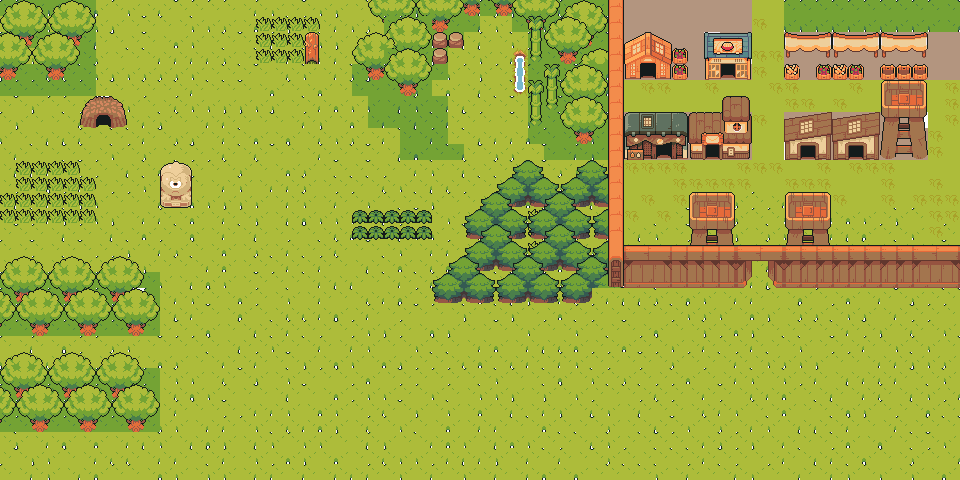
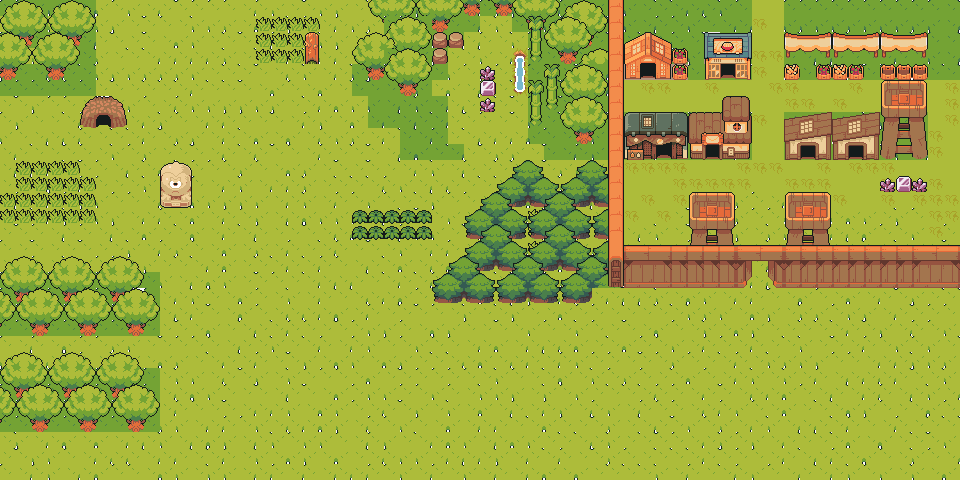
add healing function and location, revise attack collision, add enimies spawn and wave

diff --git a/page_resources/forest_adventure.js b/page_resources/forest_adventure.js
@@ -6,6 +6,8 @@ const gameOverMenu = document.getElementById("gameOverMenu");
 const tryAgainButton = document.getElementById("tryAgain");
 const startGameButton = document.getElementById("startGame");
 
+canvas.width = window.innerWidth;
+canvas.height = 600;
 const canvasWidth = canvas.clientWidth;
 const canvasHeight = canvas.clientHeight;
 let frameTimer = 0;
@@ -55,7 +57,8 @@ class Boundary {
 }
 let collision_point = [];
     let boundaries = [];
-    
+let healing_zone = [];
+let healingBoundaries = [];
     for (i = 0; i< map_collision.data.length ; i+= map_collision.width) {
         collision_point.push(map_collision.data.slice(i, map_collision.width + i));
     }
@@ -69,6 +72,22 @@ let collision_point = [];
             };
         })
     })
+    for (i = 0; i< HEALING_ZONE.data.length ; i+= HEALING_ZONE.width) {
+        healing_zone.push(HEALING_ZONE.data.slice(i, HEALING_ZONE.width + i));
+    }
+    // console.log(healing_zone);
+    
+    healing_zone.forEach((row, i) => {
+        row.forEach((symbol, j) => {
+            if (symbol === 2397) {
+                healingBoundaries.push(new Boundary({
+                    x:j*Boundary.width,
+                    y:i*Boundary.height,
+                }))
+            };
+        })
+    })
+    
 // const gameSaved = {
 //     characterHp: 100,
 //     enemyLeft: [ new BeatleEnemy ],
@@ -81,6 +100,12 @@ const characterStates = {
     idle: 3,
     run: 4,
     runReverse: 5,
+}
+let heal = (keys, healthComponent, deltaTime) => {
+    const healAmount = 10
+    if (keys.includes("i")) {
+        healthComponent.healUp(healAmount, deltaTime);
+    }
 }
 let loadImages = (sources, callback) => {
     sources.forEach ((res) => {
@@ -113,32 +138,40 @@ let startGame = () => {
 }
 tryAgainButton.addEventListener("click", startGame);
 startGameButton.addEventListener("click", startGame);
+let waveNumber = 1;
+let waveEnemiesAmount = 5*waveNumber;
 class Game {
     constructor() {
         this.samurai = new Character(30, 150);
         this.health = new HealthComponent;
         this.enemyArray = [];
         this.bossArray = [];
+        this.allEnemies = [];
     }
     updateGameProgress = (deltaTime) => {
         if (this.samurai.healthComponent.health <= 0) isGameOver = true;
-        if (this.enemyArray.length === 0 && this.bossArray.length === 0) isGameWin = true;
+        // if (this.enemyArray.length === 0 && this.bossArray.length === 0) isGameWin = true;
         // let samuraiLocation = {
         //     x: this.samurai.x,
         //     y: this.samurai.y,
         //     width: this.samurai.width,
         //     height: this.samurai.height,
         // }
-   
-        context.drawImage(images.background_map_2, 0,0, 480, 320, 0, 0, 480*scaleFactor, 320*scaleFactor)
+        this.allEnemies = [...this.enemyArray,...this.bossArray];
+        context.drawImage(images.background_map_2, 0,0, 1000, 320, 0, 0, 1000*scaleFactor, 320*scaleFactor)
         context.font = "20px Arial";
         context.fillStyle = "whitesmoke";
-        context.fillText(`Enemies remain ${[...this.enemyArray,...this.bossArray].length}`, 5, 50); 
-        let characterCollisionProperty = checkIsCollide(this.samurai,[...this.enemyArray,...this.bossArray]);
-        let characterInRadiusProperty = checkInRadius(this.samurai,[...this.enemyArray,...this.bossArray], 20, 20);
+        context.fillText(`Enemies remain ${this.allEnemies.length}`, 5, 50); 
+        context.fillText(`Wave ${waveNumber}`, 5, 80); 
+        let characterCollisionProperty = checkIsCollide(this.samurai, this.allEnemies);
+        let characterAttackHitProperty = checkIsCollide(this.samurai.attackBox,this.allEnemies);
         if (characterCollisionProperty.isCollide) this.samurai.takingDamage(characterCollisionProperty.secondCollider.damage, deltaTime);
         // this.beatle1.takingDamage(this.samurai.updateMovement(characterInput.keys, this.samurai.healthComponent.health).damage, deltaTime);
-        if (characterInRadiusProperty.isInRadius) characterInRadiusProperty.secondCollider.takingDamage(this.samurai.attack(characterInput.keys), deltaTime);
+        if (characterAttackHitProperty.isCollide) characterAttackHitProperty.secondCollider.takingDamage(this.samurai.attack(characterInput.keys), deltaTime);
+        if (checkIsCollide(this.samurai, healingBoundaries).isCollide) {
+            this.samurai.drawText("hold i to heal", 60, 90);
+            heal(characterInput.keys, this.samurai.healthComponent, deltaTime);
+        }
         this.samurai.updateMovement(characterInput.keys, this.samurai.healthComponent.health, boundaries);
         this.samurai.updateAnimation();
         this.samurai.draw();
@@ -160,31 +193,50 @@ class Game {
         }, deltaTime);
             // res.approachingLocation(this.samurai.x, this.samurai.y, this.samurai.width, this.samurai.height);
         })
+        this.spawnWave(this.allEnemies);
             // boundaries.forEach((res) => {
+            //     res.draw();
+            // })
+            // healingBoundaries.forEach((res) => {
             //     res.draw();
             // })
     }
     startGame = () => {
         this.restoreHealth();
-        this.enemyArray = [new Enemy(30,4,5), new BeatleEnemy (5,4,5), new BeatleEnemy (5,4,5)];
-        this.bossArray = [new BossEnemy (50,0,0)];
-        this.enemyArray.push(...Array.from({ length: 5 }, () => new BeatleEnemy(5, 4, 5)));
-        this.enemyArray.push(...Array.from({ length: 5 }, () => new Enemy(20, 4, 5)));
+            let bossAmount = 0 + waveNumber;
+            let reamainingEnemiesAmount = waveEnemiesAmount - bossAmount;
+            this.bossArray = [];
+            this.enemyArray = [];
+            this.bossArray.push(...Array.from({ length: bossAmount}, () => new BossEnemy(50,0,0)));
+            this.enemyArray.push(...Array.from({ length: Math.floor(reamainingEnemiesAmount/2) }, () => new BeatleEnemy(5, 4, 5)));
+            this.enemyArray.push(...Array.from({ length: Math.floor(reamainingEnemiesAmount/2) }, () => new Enemy(20, 4, 5)));
     }
     restoreHealth = () => {
         this.samurai.healthComponent.restoreHealth();
+    }
+    spawnWave = (allEnemies) => {
+        if (allEnemies <= 0) {
+            let bossAmount = 0 + waveNumber;
+            let reamainingEnemiesAmount = waveEnemiesAmount - bossAmount;
+            this.bossArray.push(...Array.from({ length: bossAmount}, () => new BossEnemy(50,0,0)));
+            this.enemyArray.push(...Array.from({ length: Math.floor(reamainingEnemiesAmount/2) }, () => new BeatleEnemy(5, 4, 5)));
+            this.enemyArray.push(...Array.from({ length: Math.floor(reamainingEnemiesAmount/2) }, () => new Enemy(20, 4, 5)));
+            waveNumber++;
+            waveEnemiesAmount = 5*waveNumber;
+        };
+        return;
     }
 }
 class InputHandler {
     constructor() {
         this.keys = [];
         window.addEventListener("keydown", (e) => {
-            if ((e.key === "w" || e.key === "a" || e.key === "s" || e.key === "d" || e.key === "k") && this.keys.indexOf(e.key) === -1) {
+            if ((e.key === "w" || e.key === "a" || e.key === "s" || e.key === "d" || e.key === "k" || e.key === "i") && this.keys.indexOf(e.key) === -1) {
                 this.keys.push(e.key)
             };
         })
         window.addEventListener("keyup", (e) => {
-            if (e.key === "w" || e.key === "a" || e.key === "s" || e.key === "d" || e.key === "k") {
+            if (e.key === "w" || e.key === "a" || e.key === "s" || e.key === "d" || e.key === "k" || e.key === "i") {
                 this.keys.splice(this.keys.indexOf(e.key), 1);
             }
         })
@@ -205,6 +257,9 @@ class CollisionBox {
     draw = () => {
         context.fillStyle = "rgb(0,255,0)";
         context.fillRect(this.x, this.y, this.width, this.height);
+    }
+    getCharacterCollision = () => {
+        return this;
     }
 }
 checkIsCollide = (firstCollider, colliders, xOffset = 0, yOffset = 0) => {
@@ -254,9 +309,13 @@ class Character {
         this.height = 96;
         this.healthComponent = new HealthComponent("green", 5, 5, maxHealth);
         this.collision = new CollisionBox(this.damage, this.x + 90, this.y + 100, this.width - 70, this.height - 25);
+        this.attackBox = new CollisionBox(this.damage, this.x + 120, this.y + 100, this.width - 40, this.height - 25);
         this.isHurt = false;
         this.isTakingDamageTime = 0;
         this.direction = 1;
+    }
+    drawText = (text, textXOffset, textYOffset) => {
+        context.fillText(text, this.x + textXOffset, this.y + textYOffset);
     }
     updateMovement = (keys, health, boundaries) => {
         if (this.isHurt) return {
@@ -332,12 +391,18 @@ class Character {
         this.collision.updateLocation(this.x + 90, this.y + 100);
         context.drawImage(images[this.actionImage], this.actionFrame * 1536/16, 0 , 672/7, 96, this.x, this.y, 200, 200);
         // context.fillRect(this.x, this.y, 100,100)
+        if (this.direction === 1) {
+            this.attackBox.updateLocation(this.x + 120, this.y + 100);
+        } else {
+            this.attackBox.updateLocation(this.x + 10, this.y + 100);
+        }
+        // this.attackBox.draw();
     }
 }
 class Enemy {
     constructor (damage, forwardRow, backwardRow, collisionXOffset = 0, collisionYOffset = 0, collisionWidth = 50, collisionHeight = 50, maxHealth = 100, sizeFactor = 2) {
         this.x = 300;
-        this.y = canvasWidth/2 + Math.random()*200;
+        this.y = canvasHeight/2 + Math.random()*200;
         this.actionFrame = 0;
         this.speed = Math.random() * 2 + 2;
         this.actionImage = "animal_wildlife_bear";
@@ -482,6 +547,14 @@ class HealthComponent {
         if (this.isTakingDamageTime <= 0 && this.health != currentHealth) {
             this.isTakingDamageTime = 100;
             this.health = currentHealth;
+            return;
+        };
+        if (this.isTakingDamageTime > 0) this.isTakingDamageTime -= interval;
+    }
+    healUp = (healAmount, interval) => {
+        if (this.isTakingDamageTime <= 0) {
+            this.isTakingDamageTime = 100;
+            this.health += healAmount;
             return;
         };
         if (this.isTakingDamageTime > 0) this.isTakingDamageTime -= interval;

diff --git a/page_resources/forest_adventure_map_collision.js b/page_resources/forest_adventure_map_collision.js
@@ -39,3 +39,44 @@ const map_collision = {
          "x":0,
          "y":0
         };
+const HEALING_ZONE = {
+         "data":[0, 0, 0, 0, 0, 0, 0, 0, 0, 0, 0, 0, 0, 0, 0, 0, 0, 0, 0, 0, 0, 0, 0, 0, 0, 0, 0, 0, 0, 0, 0, 0, 0, 0, 0, 0, 0, 0, 0, 0, 0, 0, 0, 0, 0, 0, 0, 0, 0, 0, 0, 0, 0, 0, 0, 0, 0, 0, 0, 0,
+            0, 0, 0, 0, 0, 0, 0, 0, 0, 0, 0, 0, 0, 0, 0, 0, 0, 0, 0, 0, 0, 0, 0, 0, 0, 0, 0, 0, 0, 0, 0, 0, 0, 0, 0, 0, 0, 0, 0, 0, 0, 0, 0, 0, 0, 0, 0, 0, 0, 0, 0, 0, 0, 0, 0, 0, 0, 0, 0, 0,
+            0, 0, 0, 0, 0, 0, 0, 0, 0, 0, 0, 0, 0, 0, 0, 0, 0, 0, 0, 0, 0, 0, 0, 0, 0, 0, 0, 0, 0, 0, 0, 0, 0, 0, 0, 0, 0, 0, 0, 0, 0, 0, 0, 0, 0, 0, 0, 0, 0, 0, 0, 0, 0, 0, 0, 0, 0, 0, 0, 0,
+            0, 0, 0, 0, 0, 0, 0, 0, 0, 0, 0, 0, 0, 0, 0, 0, 0, 0, 0, 0, 0, 0, 0, 0, 0, 0, 0, 0, 0, 2397, 2397, 2397, 0, 0, 0, 0, 0, 0, 0, 0, 0, 0, 0, 0, 0, 0, 0, 0, 0, 0, 0, 0, 0, 0, 0, 0, 0, 0, 0, 0,
+            0, 0, 0, 0, 0, 0, 0, 0, 0, 0, 0, 0, 0, 0, 0, 0, 0, 0, 0, 0, 0, 0, 0, 0, 0, 0, 0, 0, 0, 2397, 2397, 2397, 0, 0, 0, 0, 0, 0, 0, 0, 0, 0, 0, 0, 0, 0, 0, 0, 0, 0, 0, 0, 0, 0, 0, 0, 0, 0, 0, 0,
+            0, 0, 0, 0, 0, 0, 0, 0, 0, 0, 0, 0, 0, 0, 0, 0, 0, 0, 0, 0, 0, 0, 0, 0, 0, 0, 0, 0, 0, 2397, 2397, 2397, 0, 0, 0, 0, 0, 0, 0, 0, 0, 0, 0, 0, 0, 0, 0, 0, 0, 0, 0, 0, 0, 0, 0, 0, 0, 0, 0, 0,
+            0, 0, 0, 0, 0, 0, 0, 0, 0, 0, 0, 0, 0, 0, 0, 0, 0, 0, 0, 0, 0, 0, 0, 0, 0, 0, 0, 0, 0, 2397, 2397, 2397, 0, 0, 0, 0, 0, 0, 0, 0, 0, 0, 0, 0, 0, 0, 0, 0, 0, 0, 0, 0, 0, 0, 0, 0, 0, 0, 0, 0,
+            0, 0, 0, 0, 0, 0, 0, 0, 0, 0, 0, 0, 0, 0, 0, 0, 0, 0, 0, 0, 0, 0, 0, 0, 0, 0, 0, 0, 0, 2397, 2397, 2397, 0, 0, 0, 0, 0, 0, 0, 0, 0, 0, 0, 0, 0, 0, 0, 0, 0, 0, 0, 0, 0, 0, 0, 0, 0, 0, 0, 0,
+            0, 0, 0, 0, 0, 0, 0, 0, 0, 0, 0, 0, 0, 0, 0, 0, 0, 0, 0, 0, 0, 0, 0, 0, 0, 0, 0, 0, 0, 0, 0, 0, 0, 0, 0, 0, 0, 0, 0, 0, 0, 0, 0, 0, 0, 0, 0, 0, 0, 0, 0, 0, 0, 0, 0, 0, 0, 0, 0, 0,
+            0, 0, 0, 0, 0, 0, 0, 0, 0, 0, 0, 0, 0, 0, 0, 0, 0, 0, 0, 0, 0, 0, 0, 0, 0, 0, 0, 0, 0, 0, 0, 0, 0, 0, 0, 0, 0, 0, 0, 0, 0, 0, 0, 0, 0, 0, 0, 0, 0, 0, 0, 0, 0, 0, 0, 0, 0, 0, 0, 0,
+            0, 0, 0, 0, 0, 0, 0, 0, 0, 0, 0, 0, 0, 0, 0, 0, 0, 0, 0, 0, 0, 0, 0, 0, 0, 0, 0, 0, 0, 0, 0, 0, 0, 0, 0, 0, 0, 0, 0, 0, 0, 0, 0, 0, 0, 0, 0, 0, 0, 0, 0, 0, 0, 0, 0, 0, 0, 0, 0, 0,
+            0, 0, 0, 0, 0, 0, 0, 0, 0, 0, 0, 0, 0, 0, 0, 0, 0, 0, 0, 0, 0, 0, 0, 0, 0, 0, 0, 0, 0, 0, 0, 0, 0, 0, 0, 0, 0, 0, 0, 0, 0, 0, 0, 0, 0, 0, 0, 0, 0, 0, 0, 0, 0, 0, 0, 2397, 2397, 2397, 0, 0,
+            0, 0, 0, 0, 0, 0, 0, 0, 0, 0, 0, 0, 0, 0, 0, 0, 0, 0, 0, 0, 0, 0, 0, 0, 0, 0, 0, 0, 0, 0, 0, 0, 0, 0, 0, 0, 0, 0, 0, 0, 0, 0, 0, 0, 0, 0, 0, 0, 0, 0, 0, 0, 0, 0, 0, 0, 0, 0, 0, 0,
+            0, 0, 0, 0, 0, 0, 0, 0, 0, 0, 0, 0, 0, 0, 0, 0, 0, 0, 0, 0, 0, 0, 0, 0, 0, 0, 0, 0, 0, 0, 0, 0, 0, 0, 0, 0, 0, 0, 0, 0, 0, 0, 0, 0, 0, 0, 0, 0, 0, 0, 0, 0, 0, 0, 0, 0, 0, 0, 0, 0,
+            0, 0, 0, 0, 0, 0, 0, 0, 0, 0, 0, 0, 0, 0, 0, 0, 0, 0, 0, 0, 0, 0, 0, 0, 0, 0, 0, 0, 0, 0, 0, 0, 0, 0, 0, 0, 0, 0, 0, 0, 0, 0, 0, 0, 0, 0, 0, 0, 0, 0, 0, 0, 0, 0, 0, 0, 0, 0, 0, 0,
+            0, 0, 0, 0, 0, 0, 0, 0, 0, 0, 0, 0, 0, 0, 0, 0, 0, 0, 0, 0, 0, 0, 0, 0, 0, 0, 0, 0, 0, 0, 0, 0, 0, 0, 0, 0, 0, 0, 0, 0, 0, 0, 0, 0, 0, 0, 0, 0, 0, 0, 0, 0, 0, 0, 0, 0, 0, 0, 0, 0,
+            0, 0, 0, 0, 0, 0, 0, 0, 0, 0, 0, 0, 0, 0, 0, 0, 0, 0, 0, 0, 0, 0, 0, 0, 0, 0, 0, 0, 0, 0, 0, 0, 0, 0, 0, 0, 0, 0, 0, 0, 0, 0, 0, 0, 0, 0, 0, 0, 0, 0, 0, 0, 0, 0, 0, 0, 0, 0, 0, 0,
+            0, 0, 0, 0, 0, 0, 0, 0, 0, 0, 0, 0, 0, 0, 0, 0, 0, 0, 0, 0, 0, 0, 0, 0, 0, 0, 0, 0, 0, 0, 0, 0, 0, 0, 0, 0, 0, 0, 0, 0, 0, 0, 0, 0, 0, 0, 0, 0, 0, 0, 0, 0, 0, 0, 0, 0, 0, 0, 0, 0,
+            0, 0, 0, 0, 0, 0, 0, 0, 0, 0, 0, 0, 0, 0, 0, 0, 0, 0, 0, 0, 0, 0, 0, 0, 0, 0, 0, 0, 0, 0, 0, 0, 0, 0, 0, 0, 0, 0, 0, 0, 0, 0, 0, 0, 0, 0, 0, 0, 0, 0, 0, 0, 0, 0, 0, 0, 0, 0, 0, 0,
+            0, 0, 0, 0, 0, 0, 0, 0, 0, 0, 0, 0, 0, 0, 0, 0, 0, 0, 0, 0, 0, 0, 0, 0, 0, 0, 0, 0, 0, 0, 0, 0, 0, 0, 0, 0, 0, 0, 0, 0, 0, 0, 0, 0, 0, 0, 0, 0, 0, 0, 0, 0, 0, 0, 0, 0, 0, 0, 0, 0,
+            0, 0, 0, 0, 0, 0, 0, 0, 0, 0, 0, 0, 0, 0, 0, 0, 0, 0, 0, 0, 0, 0, 0, 0, 0, 0, 0, 0, 0, 0, 0, 0, 0, 0, 0, 0, 0, 0, 0, 0, 0, 0, 0, 0, 0, 0, 0, 0, 0, 0, 0, 0, 0, 0, 0, 0, 0, 0, 0, 0,
+            0, 0, 0, 0, 0, 0, 0, 0, 0, 0, 0, 0, 0, 0, 0, 0, 0, 0, 0, 0, 0, 0, 0, 0, 0, 0, 0, 0, 0, 0, 0, 0, 0, 0, 0, 0, 0, 0, 0, 0, 0, 0, 0, 0, 0, 0, 0, 0, 0, 0, 0, 0, 0, 0, 0, 0, 0, 0, 0, 0,
+            0, 0, 0, 0, 0, 0, 0, 0, 0, 0, 0, 0, 0, 0, 0, 0, 0, 0, 0, 0, 0, 0, 0, 0, 0, 0, 0, 0, 0, 0, 0, 0, 0, 0, 0, 0, 0, 0, 0, 0, 0, 0, 0, 0, 0, 0, 0, 0, 0, 0, 0, 0, 0, 0, 0, 0, 0, 0, 0, 0,
+            0, 0, 0, 0, 0, 0, 0, 0, 0, 0, 0, 0, 0, 0, 0, 0, 0, 0, 0, 0, 0, 0, 0, 0, 0, 0, 0, 0, 0, 0, 0, 0, 0, 0, 0, 0, 0, 0, 0, 0, 0, 0, 0, 0, 0, 0, 0, 0, 0, 0, 0, 0, 0, 0, 0, 0, 0, 0, 0, 0,
+            0, 0, 0, 0, 0, 0, 0, 0, 0, 0, 0, 0, 0, 0, 0, 0, 0, 0, 0, 0, 0, 0, 0, 0, 0, 0, 0, 0, 0, 0, 0, 0, 0, 0, 0, 0, 0, 0, 0, 0, 0, 0, 0, 0, 0, 0, 0, 0, 0, 0, 0, 0, 0, 0, 0, 0, 0, 0, 0, 0,
+            0, 0, 0, 0, 0, 0, 0, 0, 0, 0, 0, 0, 0, 0, 0, 0, 0, 0, 0, 0, 0, 0, 0, 0, 0, 0, 0, 0, 0, 0, 0, 0, 0, 0, 0, 0, 0, 0, 0, 0, 0, 0, 0, 0, 0, 0, 0, 0, 0, 0, 0, 0, 0, 0, 0, 0, 0, 0, 0, 0,
+            0, 0, 0, 0, 0, 0, 0, 0, 0, 0, 0, 0, 0, 0, 0, 0, 0, 0, 0, 0, 0, 0, 0, 0, 0, 0, 0, 0, 0, 0, 0, 0, 0, 0, 0, 0, 0, 0, 0, 0, 0, 0, 0, 0, 0, 0, 0, 0, 0, 0, 0, 0, 0, 0, 0, 0, 0, 0, 0, 0,
+            0, 0, 0, 0, 0, 0, 0, 0, 0, 0, 0, 0, 0, 0, 0, 0, 0, 0, 0, 0, 0, 0, 0, 0, 0, 0, 0, 0, 0, 0, 0, 0, 0, 0, 0, 0, 0, 0, 0, 0, 0, 0, 0, 0, 0, 0, 0, 0, 0, 0, 0, 0, 0, 0, 0, 0, 0, 0, 0, 0,
+            0, 0, 0, 0, 0, 0, 0, 0, 0, 0, 0, 0, 0, 0, 0, 0, 0, 0, 0, 0, 0, 0, 0, 0, 0, 0, 0, 0, 0, 0, 0, 0, 0, 0, 0, 0, 0, 0, 0, 0, 0, 0, 0, 0, 0, 0, 0, 0, 0, 0, 0, 0, 0, 0, 0, 0, 0, 0, 0, 0,
+            0, 0, 0, 0, 0, 0, 0, 0, 0, 0, 0, 0, 0, 0, 0, 0, 0, 0, 0, 0, 0, 0, 0, 0, 0, 0, 0, 0, 0, 0, 0, 0, 0, 0, 0, 0, 0, 0, 0, 0, 0, 0, 0, 0, 0, 0, 0, 0, 0, 0, 0, 0, 0, 0, 0, 0, 0, 0, 0, 0],
+         "height":30,
+         "id":13,
+         "name":"Collision 2",
+         "opacity":1,
+         "type":"tilelayer",
+         "visible":true,
+         "width":60,
+         "x":0,
+         "y":0
+        }

diff --git a/forest_adventure.html b/forest_adventure.html
@@ -19,7 +19,7 @@
         <div id="startGameContainer">
             <button style="width: 100px;height: 50px;" id="startGame">Start game</button>
         </div>
-        <canvas class="gameCanvas" width="1000px" height="600px" id="gameCanvas"></canvas>
+        <canvas class="gameCanvas" id="gameCanvas"></canvas>
     </div>
     <script src="./page_resources/forest_adventure_map_collision.js"></script>
     <script src="./page_resources/forest_adventure.js"></script>

diff --git a/page_resources/Background/Tileset/collision tile 2.tsx b/page_resources/Background/Tileset/collision tile 2.tsx
@@ -1,0 +1,4 @@
+<?xml version="1.0" encoding="UTF-8"?>
+<tileset version="1.10" tiledversion="1.11.2" name="collision tile 2" tilewidth="16" tileheight="16" tilecount="9" columns="3">
+ <image source="../../../../../../../Rendering resource/Game assets/collision tile 2.png" width="48" height="48"/>
+</tileset>
